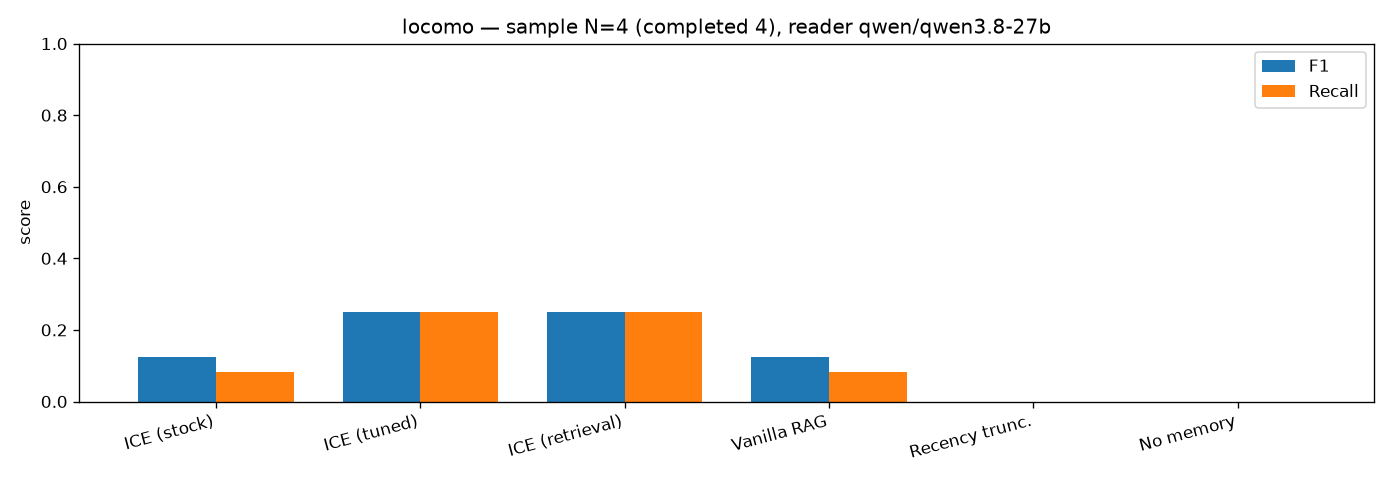
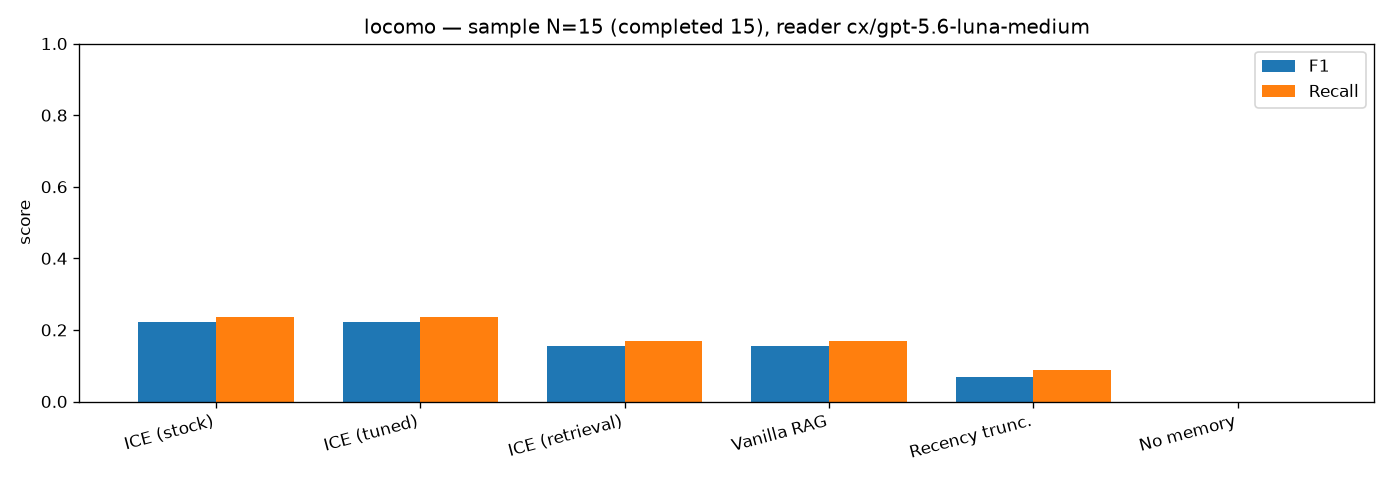
docs(benchmarks): first complete 4-suite run, all N=15 full completions
fix(make_charts): sort by ts, not path/commit-hash string

make_charts.py picked "latest" per suite via sorted(glob(...)), which
sorts by filesystem path -- i.e. by commit-hash string. An older run
under a hash that alphabetically sorts later (e.g. "c31fdb0" > "a422f77")
silently won over a genuinely newer run, which is exactly what happened
here: today's full run initially rendered as yesterday's partial N=4
locomo result. Sort by the summary's own ts field instead, matching
render_marketing.py's existing approach.

Results (commit a422f77, reader cx/gpt-5.6-luna-medium via omniroute):
first run where all four suites completed 15/15 samples, no partials.
- locomo: ICE (stock/tuned) 0.22 F1, ICE (retrieval)/Vanilla RAG 0.16,
  recency trunc. 0.07, no-memory 0.0.
- longmemeval: ICE variants/Vanilla RAG 0.39-0.46 F1 vs recency trunc.
  0.17 vs no-memory 0.01 -- the clearest signal of the four suites.
- ama: all memory-backed systems ~0.13 F1 vs no-memory 0.04 (agentic
  QA is hard across the board, per the harness's own framing).
- beam: memory-backed systems ~0.15-0.17 F1 / ~0.70 recall vs
  recency-trunc./no-memory ~0.005 F1 / ~0.54 recall.

diff --git a/scripts/make_charts.py b/scripts/make_charts.py
@@ -38,15 +38,21 @@ def main() -> int:
         print(f"make_charts: matplotlib unavailable ({exc}); skipping")
         return 0
 
-    latest: dict[str, dict] = {}
-    for f in sorted(RESULTS_DIR.glob("*/*/summary.json")):
+    runs = []
+    for f in RESULTS_DIR.glob("*/*/summary.json"):
         try:
             d = json.loads(f.read_text())
         except (json.JSONDecodeError, OSError):
             continue
         if d.get("all_synthetic") or d.get("reader") in (None, "mock") or d.get("reader_model") == "mock" or not d.get("n_completed"):
             continue
-        latest[d["benchmark"]] = d  # sorted() => last wins
+        runs.append(d)
+
+    # Sort by ts (not path/commit-hash string, which sorts alphabetically and
+    # can pick an older run) so the last write per suite is the newest one.
+    latest: dict[str, dict] = {}
+    for d in sorted(runs, key=lambda x: x.get("ts", "")):
+        latest[d["benchmark"]] = d
 
     if not latest:
         print("make_charts: no non-synthetic summaries; nothing to plot")

diff --git a/marketing/BENCHMARKS.md b/marketing/BENCHMARKS.md
@@ -6,77 +6,77 @@
 
 | System | F1 | EM | Recall | Abstention F1 | Judge spot-acc | N |
 |---|---|---|---|---|---|---|
-| ICE (stock config: compression threshold 0.5) | 0.125 | 0.000 | 0.083 | - | - | 4 |
-| ICE (tuned: ICE_COMPRESSION_THRESHOLD=0.1) | 0.250 | 0.250 | 0.250 | - | - | 4 |
-| ICE retrieval only (raw hits, no ContextPager) | 0.250 | 0.250 | 0.250 | - | - | 4 |
-| Vanilla RAG (same embeddings, no ICE attention layer) | 0.125 | 0.000 | 0.083 | - | - | 4 |
-| Recency truncation (no retrieval) | 0.000 | 0.000 | 0.000 | - | - | 4 |
-| No memory (question only) | 0.000 | 0.000 | 0.000 | - | - | 4 |
+| ICE (stock config: compression threshold 0.5) | 0.223 | 0.133 | 0.236 | 0.600 | 1.000 (n=5) | 15 |
+| ICE (tuned: ICE_COMPRESSION_THRESHOLD=0.1) | 0.223 | 0.133 | 0.236 | 0.600 | 1.000 (n=5) | 15 |
+| ICE retrieval only (raw hits, no ContextPager) | 0.156 | 0.067 | 0.170 | 0.500 | 1.000 (n=5) | 15 |
+| Vanilla RAG (same embeddings, no ICE attention layer) | 0.156 | 0.067 | 0.170 | 0.500 | 1.000 (n=5) | 15 |
+| Recency truncation (no retrieval) | 0.068 | 0.000 | 0.089 | 0.429 | 1.000 (n=5) | 15 |
+| No memory (question only) | 0.000 | 0.000 | 0.000 | 0.333 | 1.000 (n=5) | 15 |
 
 **Reproducibility**
 
-- suite: `locomo`  |  commit: `c31fdb0`  |  run: `2026-09-16T14:47:02Z`
-- reader / judge model: `qwen/qwen3.8-27b` via `openrouter`
-- ICE substrate: `sandbox`  |  sample limit: `4`  |  completed: `4`  |  partial: `False`
-- raw: `results/locomo/c31fdb0/` (`summary.json`, `predictions.jsonl`, `raw.log`)
-- reproduce: `PYTHONPATH=. python benchmarks/run_benchmarks.py --suite locomo --reader openrouter --limit 4`
+- suite: `locomo`  |  commit: `a422f77`  |  run: `2026-09-17T15:38:01Z`
+- reader / judge model: `cx/gpt-5.6-luna-medium` via `openrouter`
+- ICE substrate: `sandbox`  |  sample limit: `15`  |  completed: `15`  |  partial: `False`
+- raw: `results/locomo/a422f77/` (`summary.json`, `predictions.jsonl`, `raw.log`)
+- reproduce: `PYTHONPATH=. python benchmarks/run_benchmarks.py --suite locomo --reader openrouter --limit 15`
 
 ## longmemeval  (sample)
 
 | System | F1 | EM | Recall | Abstention F1 | Judge spot-acc | N |
 |---|---|---|---|---|---|---|
-| ICE (stock config: compression threshold 0.5) | 0.000 | 0.000 | 0.000 | 1.000 | - | 2 |
-| ICE (tuned: ICE_COMPRESSION_THRESHOLD=0.1) | 0.000 | 0.000 | 0.000 | 1.000 | - | 1 |
-| ICE retrieval only (raw hits, no ContextPager) | 0.000 | 0.000 | 0.000 | 1.000 | - | 1 |
-| Vanilla RAG (same embeddings, no ICE attention layer) | 0.000 | 0.000 | 0.000 | 1.000 | - | 1 |
-| Recency truncation (no retrieval) | 0.000 | 0.000 | 0.000 | 1.000 | - | 1 |
-| No memory (question only) | 0.000 | 0.000 | 0.000 | 1.000 | - | 1 |
+| ICE (stock config: compression threshold 0.5) | 0.391 | 0.267 | 0.404 | 1.000 | 1.000 (n=5) | 15 |
+| ICE (tuned: ICE_COMPRESSION_THRESHOLD=0.1) | 0.458 | 0.333 | 0.471 | 1.000 | 1.000 (n=5) | 15 |
+| ICE retrieval only (raw hits, no ContextPager) | 0.458 | 0.333 | 0.471 | 1.000 | 1.000 (n=5) | 15 |
+| Vanilla RAG (same embeddings, no ICE attention layer) | 0.458 | 0.333 | 0.471 | 1.000 | 1.000 (n=5) | 15 |
+| Recency truncation (no retrieval) | 0.169 | 0.133 | 0.158 | 0.625 | 1.000 (n=5) | 15 |
+| No memory (question only) | 0.009 | 0.000 | 0.006 | 0.500 | 1.000 (n=5) | 15 |
 
 **Reproducibility**
 
-- suite: `longmemeval`  |  commit: `c31fdb0`  |  run: `2026-09-16T15:10:51Z`
-- reader / judge model: `qwen/qwen3.8-27b` via `openrouter`
-- ICE substrate: `sandbox`  |  sample limit: `4`  |  completed: `1`  |  partial: `True`
-- raw: `results/longmemeval/c31fdb0/` (`summary.json`, `predictions.jsonl`, `raw.log`)
-- reproduce: `PYTHONPATH=. python benchmarks/run_benchmarks.py --suite longmemeval --reader openrouter --limit 4`
+- suite: `longmemeval`  |  commit: `a422f77`  |  run: `2026-09-17T15:34:52Z`
+- reader / judge model: `cx/gpt-5.6-luna-medium` via `openrouter`
+- ICE substrate: `sandbox`  |  sample limit: `15`  |  completed: `15`  |  partial: `False`
+- raw: `results/longmemeval/a422f77/` (`summary.json`, `predictions.jsonl`, `raw.log`)
+- reproduce: `PYTHONPATH=. python benchmarks/run_benchmarks.py --suite longmemeval --reader openrouter --limit 15`
 
 ## beam  (sample)
 
 | System | F1 | EM | Recall | Abstention F1 | Judge spot-acc | N |
 |---|---|---|---|---|---|---|
-| ICE (stock config: compression threshold 0.5) | 0.374 | 0.333 | 0.636 | 0.000 | 0.000 (n=6) | 15 |
-| ICE (tuned: ICE_COMPRESSION_THRESHOLD=0.1) | 0.506 | 0.467 | 0.629 | 0.000 | 0.000 (n=6) | 15 |
-| ICE retrieval only (raw hits, no ContextPager) | 0.305 | 0.267 | 0.631 | 0.000 | 0.000 (n=6) | 15 |
-| Vanilla RAG (same embeddings, no ICE attention layer) | 0.305 | 0.267 | 0.631 | 0.000 | 0.000 (n=6) | 15 |
-| Recency truncation (no retrieval) | 0.007 | 0.000 | 0.539 | 0.308 | 0.000 (n=6) | 15 |
-| No memory (question only) | 0.007 | 0.000 | 0.539 | 0.235 | 0.000 (n=6) | 15 |
+| ICE (stock config: compression threshold 0.5) | 0.166 | 0.067 | 0.698 | 0.500 | 1.000 (n=5) | 15 |
+| ICE (tuned: ICE_COMPRESSION_THRESHOLD=0.1) | 0.149 | 0.000 | 0.687 | 0.500 | 1.000 (n=5) | 15 |
+| ICE retrieval only (raw hits, no ContextPager) | 0.149 | 0.000 | 0.704 | 0.500 | 1.000 (n=5) | 15 |
+| Vanilla RAG (same embeddings, no ICE attention layer) | 0.149 | 0.000 | 0.704 | 0.500 | 1.000 (n=5) | 15 |
+| Recency truncation (no retrieval) | 0.004 | 0.000 | 0.535 | 0.267 | 1.000 (n=5) | 15 |
+| No memory (question only) | 0.004 | 0.000 | 0.535 | 0.235 | 1.000 (n=5) | 15 |
 
 **Reproducibility**
 
-- suite: `beam`  |  commit: `7d0a95d3`  |  run: `2026-09-08T18:07:09Z`
-- reader / judge model: `bai/glm-5.3-flash` via `openrouter`
+- suite: `beam`  |  commit: `a422f77`  |  run: `2026-09-17T15:44:15Z`
+- reader / judge model: `cx/gpt-5.6-luna-medium` via `openrouter`
 - ICE substrate: `sandbox`  |  sample limit: `15`  |  completed: `15`  |  partial: `False`
-- raw: `results/beam/7d0a95d3/` (`summary.json`, `predictions.jsonl`, `raw.log`)
+- raw: `results/beam/a422f77/` (`summary.json`, `predictions.jsonl`, `raw.log`)
 - reproduce: `PYTHONPATH=. python benchmarks/run_benchmarks.py --suite beam --reader openrouter --limit 15`
 
 ## ama  (sample)
 
 | System | F1 | EM | Recall | Abstention F1 | Judge spot-acc | N |
 |---|---|---|---|---|---|---|
-| ICE (stock config: compression threshold 0.5) | 0.000 | 0.000 | 0.000 | - | - | 2 |
-| ICE (tuned: ICE_COMPRESSION_THRESHOLD=0.1) | 0.000 | 0.000 | 0.000 | - | - | 1 |
-| ICE retrieval only (raw hits, no ContextPager) | 0.000 | 0.000 | 0.000 | - | - | 1 |
-| Vanilla RAG (same embeddings, no ICE attention layer) | 0.000 | 0.000 | 0.000 | - | - | 1 |
-| Recency truncation (no retrieval) | 0.000 | 0.000 | 0.000 | - | - | 1 |
-| No memory (question only) | 0.000 | 0.000 | 0.000 | - | - | 1 |
+| ICE (stock config: compression threshold 0.5) | 0.134 | 0.000 | 0.141 | - | 1.000 (n=5) | 15 |
+| ICE (tuned: ICE_COMPRESSION_THRESHOLD=0.1) | 0.134 | 0.000 | 0.141 | - | 1.000 (n=5) | 15 |
+| ICE retrieval only (raw hits, no ContextPager) | 0.131 | 0.000 | 0.139 | - | 1.000 (n=5) | 15 |
+| Vanilla RAG (same embeddings, no ICE attention layer) | 0.131 | 0.000 | 0.139 | - | 1.000 (n=5) | 15 |
+| Recency truncation (no retrieval) | 0.133 | 0.000 | 0.137 | - | 1.000 (n=5) | 15 |
+| No memory (question only) | 0.040 | 0.000 | 0.034 | - | 1.000 (n=5) | 15 |
 
 **Reproducibility**
 
-- suite: `ama`  |  commit: `c31fdb0`  |  run: `2026-09-16T15:16:30Z`
-- reader / judge model: `qwen/qwen3.8-27b` via `openrouter`
-- ICE substrate: `sandbox`  |  sample limit: `4`  |  completed: `1`  |  partial: `True`
-- raw: `results/ama/c31fdb0/` (`summary.json`, `predictions.jsonl`, `raw.log`)
-- reproduce: `PYTHONPATH=. python benchmarks/run_benchmarks.py --suite ama --reader openrouter --limit 4`
+- suite: `ama`  |  commit: `a422f77`  |  run: `2026-09-17T15:40:45Z`
+- reader / judge model: `cx/gpt-5.6-luna-medium` via `openrouter`
+- ICE substrate: `sandbox`  |  sample limit: `15`  |  completed: `15`  |  partial: `False`
+- raw: `results/ama/a422f77/` (`summary.json`, `predictions.jsonl`, `raw.log`)
+- reproduce: `PYTHONPATH=. python benchmarks/run_benchmarks.py --suite ama --reader openrouter --limit 15`
 
 ## Appendix: synthetic-fixture runs (NOT evidence)
 

diff --git a/marketing/blog-draft.md b/marketing/blog-draft.md
@@ -14,69 +14,69 @@ We run this on third-party memory benchmarks — LoCoMo, LongMemEval, BEAM and A
 
 | System | F1 | EM | Recall | Abstention F1 | Judge spot-acc | N |
 |---|---|---|---|---|---|---|
-| ICE (stock config: compression threshold 0.5) | 0.125 | 0.000 | 0.083 | - | - | 4 |
-| ICE (tuned: ICE_COMPRESSION_THRESHOLD=0.1) | 0.250 | 0.250 | 0.250 | - | - | 4 |
-| ICE retrieval only (raw hits, no ContextPager) | 0.250 | 0.250 | 0.250 | - | - | 4 |
-| Vanilla RAG (same embeddings, no ICE attention layer) | 0.125 | 0.000 | 0.083 | - | - | 4 |
-| Recency truncation (no retrieval) | 0.000 | 0.000 | 0.000 | - | - | 4 |
-| No memory (question only) | 0.000 | 0.000 | 0.000 | - | - | 4 |
+| ICE (stock config: compression threshold 0.5) | 0.223 | 0.133 | 0.236 | 0.600 | 1.000 (n=5) | 15 |
+| ICE (tuned: ICE_COMPRESSION_THRESHOLD=0.1) | 0.223 | 0.133 | 0.236 | 0.600 | 1.000 (n=5) | 15 |
+| ICE retrieval only (raw hits, no ContextPager) | 0.156 | 0.067 | 0.170 | 0.500 | 1.000 (n=5) | 15 |
+| Vanilla RAG (same embeddings, no ICE attention layer) | 0.156 | 0.067 | 0.170 | 0.500 | 1.000 (n=5) | 15 |
+| Recency truncation (no retrieval) | 0.068 | 0.000 | 0.089 | 0.429 | 1.000 (n=5) | 15 |
+| No memory (question only) | 0.000 | 0.000 | 0.000 | 0.333 | 1.000 (n=5) | 15 |
 
-- suite: `locomo`  |  commit: `c31fdb0`  |  run: `2026-09-16T14:47:02Z`
-- reader / judge model: `qwen/qwen3.8-27b` via `openrouter`
-- ICE substrate: `sandbox`  |  sample limit: `4`  |  completed: `4`  |  partial: `False`
-- raw: `results/locomo/c31fdb0/` (`summary.json`, `predictions.jsonl`, `raw.log`)
-- reproduce: `PYTHONPATH=. python benchmarks/run_benchmarks.py --suite locomo --reader openrouter --limit 4`
+- suite: `locomo`  |  commit: `a422f77`  |  run: `2026-09-17T15:38:01Z`
+- reader / judge model: `cx/gpt-5.6-luna-medium` via `openrouter`
+- ICE substrate: `sandbox`  |  sample limit: `15`  |  completed: `15`  |  partial: `False`
+- raw: `results/locomo/a422f77/` (`summary.json`, `predictions.jsonl`, `raw.log`)
+- reproduce: `PYTHONPATH=. python benchmarks/run_benchmarks.py --suite locomo --reader openrouter --limit 15`
 
 ### longmemeval
 
 | System | F1 | EM | Recall | Abstention F1 | Judge spot-acc | N |
 |---|---|---|---|---|---|---|
-| ICE (stock config: compression threshold 0.5) | 0.000 | 0.000 | 0.000 | 1.000 | - | 2 |
-| ICE (tuned: ICE_COMPRESSION_THRESHOLD=0.1) | 0.000 | 0.000 | 0.000 | 1.000 | - | 1 |
-| ICE retrieval only (raw hits, no ContextPager) | 0.000 | 0.000 | 0.000 | 1.000 | - | 1 |
-| Vanilla RAG (same embeddings, no ICE attention layer) | 0.000 | 0.000 | 0.000 | 1.000 | - | 1 |
-| Recency truncation (no retrieval) | 0.000 | 0.000 | 0.000 | 1.000 | - | 1 |
-| No memory (question only) | 0.000 | 0.000 | 0.000 | 1.000 | - | 1 |
+| ICE (stock config: compression threshold 0.5) | 0.391 | 0.267 | 0.404 | 1.000 | 1.000 (n=5) | 15 |
+| ICE (tuned: ICE_COMPRESSION_THRESHOLD=0.1) | 0.458 | 0.333 | 0.471 | 1.000 | 1.000 (n=5) | 15 |
+| ICE retrieval only (raw hits, no ContextPager) | 0.458 | 0.333 | 0.471 | 1.000 | 1.000 (n=5) | 15 |
+| Vanilla RAG (same embeddings, no ICE attention layer) | 0.458 | 0.333 | 0.471 | 1.000 | 1.000 (n=5) | 15 |
+| Recency truncation (no retrieval) | 0.169 | 0.133 | 0.158 | 0.625 | 1.000 (n=5) | 15 |
+| No memory (question only) | 0.009 | 0.000 | 0.006 | 0.500 | 1.000 (n=5) | 15 |
 
-- suite: `longmemeval`  |  commit: `c31fdb0`  |  run: `2026-09-16T15:10:51Z`
-- reader / judge model: `qwen/qwen3.8-27b` via `openrouter`
-- ICE substrate: `sandbox`  |  sample limit: `4`  |  completed: `1`  |  partial: `True`
-- raw: `results/longmemeval/c31fdb0/` (`summary.json`, `predictions.jsonl`, `raw.log`)
-- reproduce: `PYTHONPATH=. python benchmarks/run_benchmarks.py --suite longmemeval --reader openrouter --limit 4`
+- suite: `longmemeval`  |  commit: `a422f77`  |  run: `2026-09-17T15:34:52Z`
+- reader / judge model: `cx/gpt-5.6-luna-medium` via `openrouter`
+- ICE substrate: `sandbox`  |  sample limit: `15`  |  completed: `15`  |  partial: `False`
+- raw: `results/longmemeval/a422f77/` (`summary.json`, `predictions.jsonl`, `raw.log`)
+- reproduce: `PYTHONPATH=. python benchmarks/run_benchmarks.py --suite longmemeval --reader openrouter --limit 15`
 
 ### beam
 
 | System | F1 | EM | Recall | Abstention F1 | Judge spot-acc | N |
 |---|---|---|---|---|---|---|
-| ICE (stock config: compression threshold 0.5) | 0.374 | 0.333 | 0.636 | 0.000 | 0.000 (n=6) | 15 |
-| ICE (tuned: ICE_COMPRESSION_THRESHOLD=0.1) | 0.506 | 0.467 | 0.629 | 0.000 | 0.000 (n=6) | 15 |
-| ICE retrieval only (raw hits, no ContextPager) | 0.305 | 0.267 | 0.631 | 0.000 | 0.000 (n=6) | 15 |
-| Vanilla RAG (same embeddings, no ICE attention layer) | 0.305 | 0.267 | 0.631 | 0.000 | 0.000 (n=6) | 15 |
-| Recency truncation (no retrieval) | 0.007 | 0.000 | 0.539 | 0.308 | 0.000 (n=6) | 15 |
-| No memory (question only) | 0.007 | 0.000 | 0.539 | 0.235 | 0.000 (n=6) | 15 |
+| ICE (stock config: compression threshold 0.5) | 0.166 | 0.067 | 0.698 | 0.500 | 1.000 (n=5) | 15 |
+| ICE (tuned: ICE_COMPRESSION_THRESHOLD=0.1) | 0.149 | 0.000 | 0.687 | 0.500 | 1.000 (n=5) | 15 |
+| ICE retrieval only (raw hits, no ContextPager) | 0.149 | 0.000 | 0.704 | 0.500 | 1.000 (n=5) | 15 |
+| Vanilla RAG (same embeddings, no ICE attention layer) | 0.149 | 0.000 | 0.704 | 0.500 | 1.000 (n=5) | 15 |
+| Recency truncation (no retrieval) | 0.004 | 0.000 | 0.535 | 0.267 | 1.000 (n=5) | 15 |
+| No memory (question only) | 0.004 | 0.000 | 0.535 | 0.235 | 1.000 (n=5) | 15 |
 
-- suite: `beam`  |  commit: `7d0a95d3`  |  run: `2026-09-08T18:07:09Z`
-- reader / judge model: `bai/glm-5.3-flash` via `openrouter`
+- suite: `beam`  |  commit: `a422f77`  |  run: `2026-09-17T15:44:15Z`
+- reader / judge model: `cx/gpt-5.6-luna-medium` via `openrouter`
 - ICE substrate: `sandbox`  |  sample limit: `15`  |  completed: `15`  |  partial: `False`
-- raw: `results/beam/7d0a95d3/` (`summary.json`, `predictions.jsonl`, `raw.log`)
+- raw: `results/beam/a422f77/` (`summary.json`, `predictions.jsonl`, `raw.log`)
 - reproduce: `PYTHONPATH=. python benchmarks/run_benchmarks.py --suite beam --reader openrouter --limit 15`
 
 ### ama
 
 | System | F1 | EM | Recall | Abstention F1 | Judge spot-acc | N |
 |---|---|---|---|---|---|---|
-| ICE (stock config: compression threshold 0.5) | 0.000 | 0.000 | 0.000 | - | - | 2 |
-| ICE (tuned: ICE_COMPRESSION_THRESHOLD=0.1) | 0.000 | 0.000 | 0.000 | - | - | 1 |
-| ICE retrieval only (raw hits, no ContextPager) | 0.000 | 0.000 | 0.000 | - | - | 1 |
-| Vanilla RAG (same embeddings, no ICE attention layer) | 0.000 | 0.000 | 0.000 | - | - | 1 |
-| Recency truncation (no retrieval) | 0.000 | 0.000 | 0.000 | - | - | 1 |
-| No memory (question only) | 0.000 | 0.000 | 0.000 | - | - | 1 |
+| ICE (stock config: compression threshold 0.5) | 0.134 | 0.000 | 0.141 | - | 1.000 (n=5) | 15 |
+| ICE (tuned: ICE_COMPRESSION_THRESHOLD=0.1) | 0.134 | 0.000 | 0.141 | - | 1.000 (n=5) | 15 |
+| ICE retrieval only (raw hits, no ContextPager) | 0.131 | 0.000 | 0.139 | - | 1.000 (n=5) | 15 |
+| Vanilla RAG (same embeddings, no ICE attention layer) | 0.131 | 0.000 | 0.139 | - | 1.000 (n=5) | 15 |
+| Recency truncation (no retrieval) | 0.133 | 0.000 | 0.137 | - | 1.000 (n=5) | 15 |
+| No memory (question only) | 0.040 | 0.000 | 0.034 | - | 1.000 (n=5) | 15 |
 
-- suite: `ama`  |  commit: `c31fdb0`  |  run: `2026-09-16T15:16:30Z`
-- reader / judge model: `qwen/qwen3.8-27b` via `openrouter`
-- ICE substrate: `sandbox`  |  sample limit: `4`  |  completed: `1`  |  partial: `True`
-- raw: `results/ama/c31fdb0/` (`summary.json`, `predictions.jsonl`, `raw.log`)
-- reproduce: `PYTHONPATH=. python benchmarks/run_benchmarks.py --suite ama --reader openrouter --limit 4`
+- suite: `ama`  |  commit: `a422f77`  |  run: `2026-09-17T15:40:45Z`
+- reader / judge model: `cx/gpt-5.6-luna-medium` via `openrouter`
+- ICE substrate: `sandbox`  |  sample limit: `15`  |  completed: `15`  |  partial: `False`
+- raw: `results/ama/a422f77/` (`summary.json`, `predictions.jsonl`, `raw.log`)
+- reproduce: `PYTHONPATH=. python benchmarks/run_benchmarks.py --suite ama --reader openrouter --limit 15`
 
 ## What the sample shows so far
 

diff --git a/marketing/landing-section.md b/marketing/landing-section.md
@@ -6,13 +6,13 @@ ICE is measured as a memory layer: one fixed reader model, context supplied by I
 
 | System | F1 | EM | Recall | Abstention F1 | Judge spot-acc | N |
 |---|---|---|---|---|---|---|
-| ICE (stock config: compression threshold 0.5) | 0.125 | 0.000 | 0.083 | - | - | 4 |
-| ICE (tuned: ICE_COMPRESSION_THRESHOLD=0.1) | 0.250 | 0.250 | 0.250 | - | - | 4 |
-| ICE retrieval only (raw hits, no ContextPager) | 0.250 | 0.250 | 0.250 | - | - | 4 |
-| Vanilla RAG (same embeddings, no ICE attention layer) | 0.125 | 0.000 | 0.083 | - | - | 4 |
-| Recency truncation (no retrieval) | 0.000 | 0.000 | 0.000 | - | - | 4 |
-| No memory (question only) | 0.000 | 0.000 | 0.000 | - | - | 4 |
+| ICE (stock config: compression threshold 0.5) | 0.223 | 0.133 | 0.236 | 0.600 | 1.000 (n=5) | 15 |
+| ICE (tuned: ICE_COMPRESSION_THRESHOLD=0.1) | 0.223 | 0.133 | 0.236 | 0.600 | 1.000 (n=5) | 15 |
+| ICE retrieval only (raw hits, no ContextPager) | 0.156 | 0.067 | 0.170 | 0.500 | 1.000 (n=5) | 15 |
+| Vanilla RAG (same embeddings, no ICE attention layer) | 0.156 | 0.067 | 0.170 | 0.500 | 1.000 (n=5) | 15 |
+| Recency truncation (no retrieval) | 0.068 | 0.000 | 0.089 | 0.429 | 1.000 (n=5) | 15 |
+| No memory (question only) | 0.000 | 0.000 | 0.000 | 0.333 | 1.000 (n=5) | 15 |
 
-_Source: `results/locomo/c31fdb0/summary.json` · commit `c31fdb0`_
+_Source: `results/locomo/a422f77/summary.json` · commit `a422f77`_
 
 [Full methodology, raw logs and reproduction steps →](../benchmarks/marketing/BENCHMARKS.md)
